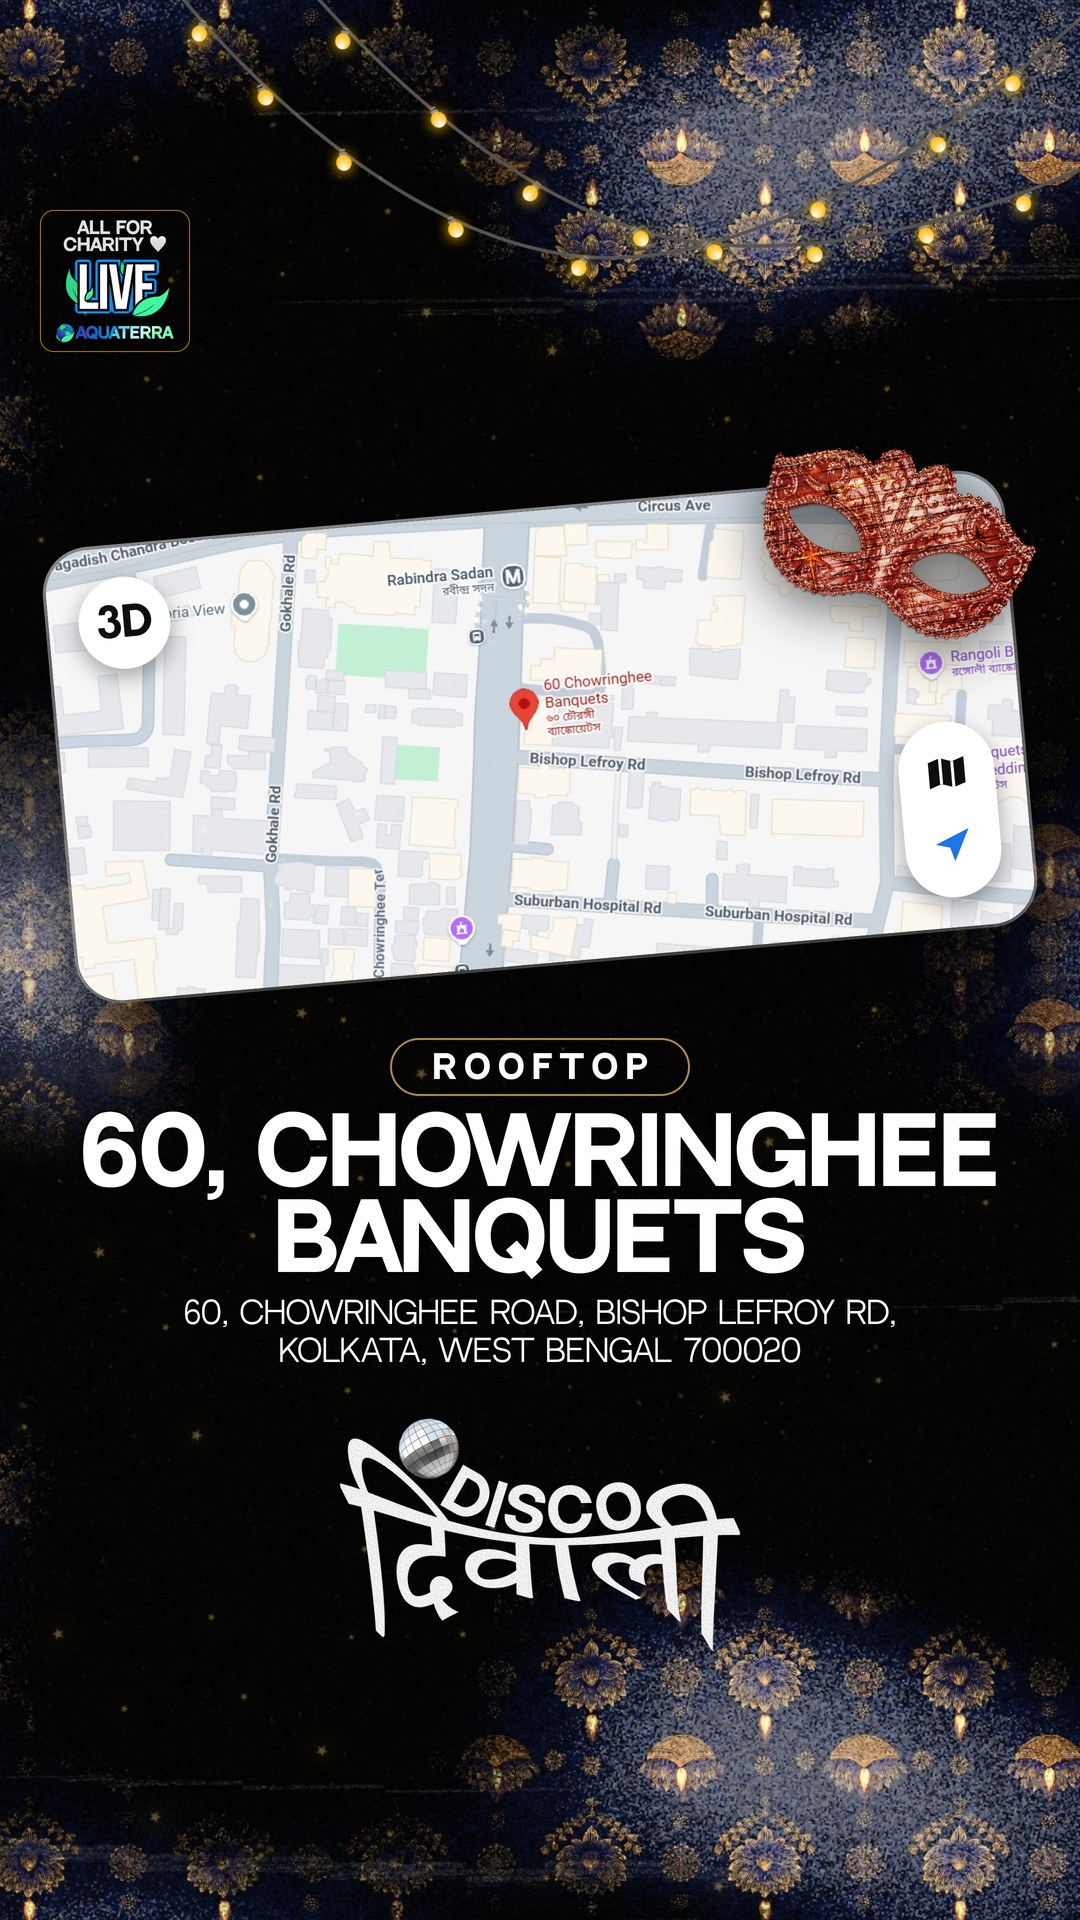
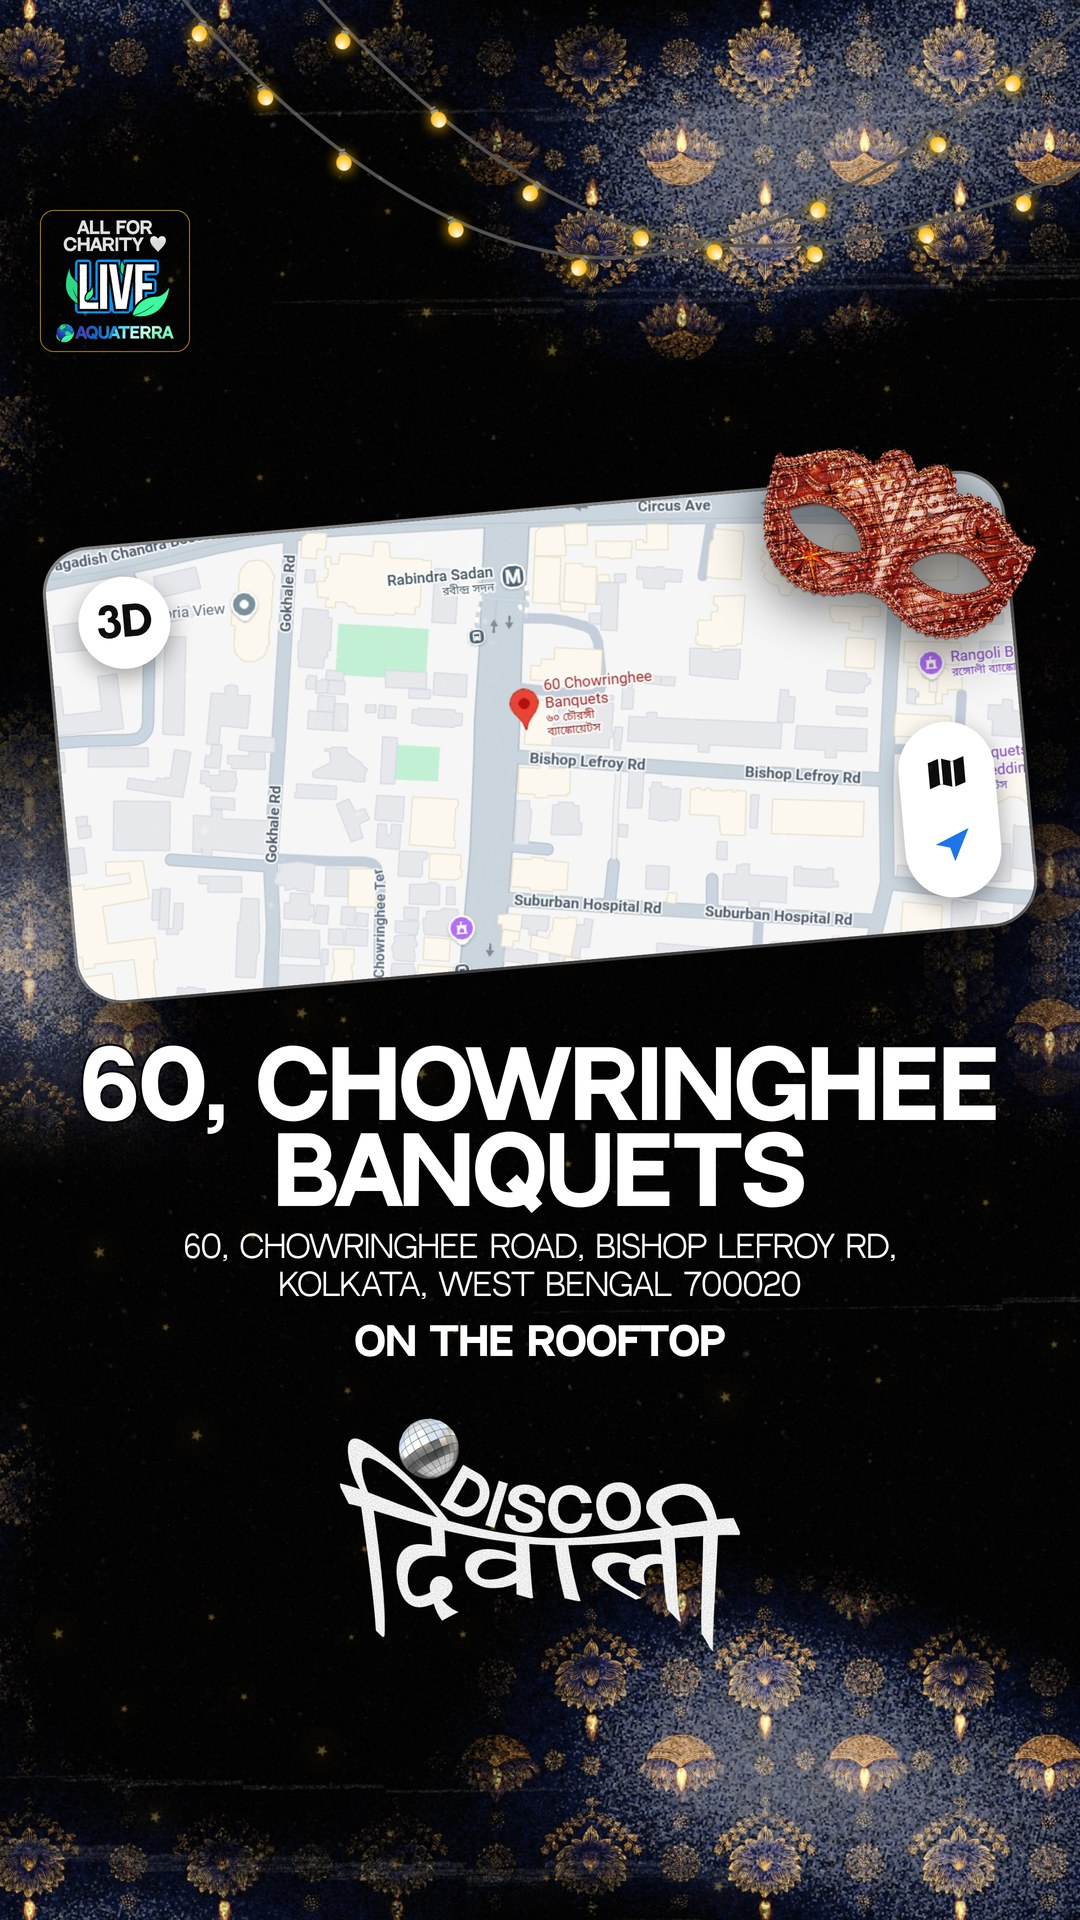
Disco Diwali location reveal: ON THE ROOFTOP line below the address (option B)
Claude-Session: https://claude.ai/code/session_01SvqxkoTEENgXPyjFifmnqB

Changed region(s): [[0.0611, 0.5312, 0.9167, 0.7188]]

diff --git a/scratchpad/dd_location_reveal.py b/scratchpad/dd_location_reveal.py
@@ -22,7 +22,8 @@ VENUE = ("60, Chowringhee", "Banquets")
 ADDR = ("60, Chowringhee Road, Bishop Lefroy Rd,", "Kolkata, West Bengal 700020")
 TILT = -5                                   # the screenshot is 1080x508: any card width w keeps its aspect at h = w * 508 / 1080
 BLUE = "#1A73E8"
-VARIANT = os.environ.get("ROOFTOP", "tag")      # how the rooftop is mentioned: tag | plain_above | below | callout
+DEFAULT_VARIANT = "below"                             # chosen by the user, 2026-10-19: "ON THE ROOFTOP" below the address
+VARIANT = os.environ.get("ROOFTOP", DEFAULT_VARIANT)   # how the rooftop is mentioned: below | tag | plain_above | callout
 
 
 def rot_box(cx, cy, w, h, deg):
@@ -119,7 +120,7 @@ async def main():
         for name, H in (("feed", 1350), ("story", 1920)):
             inner, els, bottom = poster(H)
             print(f"[{name}] last element ends at y={bottom} of {H}")
-            await B.render(B.page(W, H, "#000", inner, grain=False), os.path.join(OUT, (f"{name}.png" if VARIANT == "tag" else f"var_{VARIANT}_{name}.png")), W, H, elements=els, containers=(), bleed_tags=("plate",), crop_tags=("plate", "card"),
+            await B.render(B.page(W, H, "#000", inner, grain=False), os.path.join(OUT, (f"{name}.png" if VARIANT == DEFAULT_VARIANT else f"var_{VARIANT}_{name}.png")), W, H, elements=els, containers=(), bleed_tags=("plate",), crop_tags=("plate", "card"),
                            page_bg="#000", collision_ignore=[("mask", "card"), ("card", "badge")])
     print("location reveal done ->", OUT)
 asyncio.run(main())

diff --git a/brain/DISCO_DIWALI.md b/brain/DISCO_DIWALI.md
@@ -85,7 +85,7 @@ Four 4:5 slides from a second user inspo (dimmed full-bleed night photo, gold-bo
 Four 1080x1350 slides on the approved diya ground (user, 2026-10-14, "i want this blue effect": black, navy and gold lotus-diya corners fading to black, string lights; not the beam recipe), from a user inspo (a "Choose everything related to..." verification card over a party photo): 1 the COVER (title lockup, copper mask, LIVE badge, a full captcha-card hook: blue header VERIFY YOU'RE A DISCO DIWALI HUMAN, a checkbox with a spinner, a SWIPE button), 2 the card with nine real event photos, 3 the same card with all nine ticked and the button reading VERIFIED, 4 ALL FOR CHARITY with the edition line and the LINK IN BIO pill (no date or time anywhere in the carousel, user 2026-10-14). Adaptations: the card is a design device (no reCAPTCHA marks, real photos, our button); the inspo's "best parties in the city" became "Related to Disco Diwali" because the claim cannot be backed; the header keeps the inspo's blue as the recognisable mechanism. No price, venue or lineup. Photo consent caveat applies (nine event photos, several show apparent minors).
 
 ### Location reveal poster (2026-10-19) — `scratchpad/dd_location_reveal.py`, JPEGs in `sample_outputs/disco_diwali_location/`
-Feed 1080x1350 and story 1080x1920 from a user inspo (a tilted rounded map card lying on the ground with round map buttons and a pin avatar). The map is the USER'S OWN screenshot (`engine/assets/disco_diwali/map_60_chowringhee.jpg`), never redrawn, so no street label is ours; the "3D" and compass buttons are drawn here with no Apple or Google marks. Facts printed, all supplied by the user: venue "60, Chowringhee Banquets" and the address "60, Chowringhee Road, Bishop Lefroy Rd, Kolkata, West Bengal 700020". No date or time (user choice), no price, no lineup. Layout (user, 2026-10-19: no pill, lockup in the footer like the reference chat slide, mask back on the card, no edition line): LIVE badge top left, the map card with the copper mask lying across its top-right corner (the placement the user preferred over a top-right mask), the reveal copy (a gold-edged ROOFTOP tag, then the venue and address; the event is on a rooftop, user 2026-10-19; the first wording, THE ROOFTOP AT, read awkwardly and was dropped), then the DISCO DIWALI lockup WITH its ball as a small footer mark. No LINK IN BIO pill, no MASQUERADE SANGEET EDITION line, no LOCATION REVEAL label. The map card is 960px wide (a tilted box ~995px), the hero. The inspo's Memoji pin avatar is not used; the red venue pin in the screenshot carries the pointing. Lessons: size the feed stack from the room left (the first build ended at y=1432 on a 1350 canvas, caught by the gate); a headline at the story's full size sat 50px from the edge, so 90px. The "Turf XL, New Alipore" in the TerraThon scripts is where the ticket STALL is, not the event venue.
+Feed 1080x1350 and story 1080x1920 from a user inspo (a tilted rounded map card lying on the ground with round map buttons and a pin avatar). The map is the USER'S OWN screenshot (`engine/assets/disco_diwali/map_60_chowringhee.jpg`), never redrawn, so no street label is ours; the "3D" and compass buttons are drawn here with no Apple or Google marks. Facts printed, all supplied by the user: venue "60, Chowringhee Banquets" and the address "60, Chowringhee Road, Bishop Lefroy Rd, Kolkata, West Bengal 700020". No date or time (user choice), no price, no lineup. Layout (user, 2026-10-19: no pill, lockup in the footer like the reference chat slide, mask back on the card, no edition line): LIVE badge top left, the map card with the copper mask lying across its top-right corner (the placement the user preferred over a top-right mask), the reveal copy (the venue, the address, then a plain bold line ON THE ROOFTOP; the event is on a rooftop, user 2026-10-19). Three earlier wordings were tried and rejected by eye (THE ROOFTOP AT above the venue, a gold ROOFTOP pill, and a callout on the map pin); `dd_location_reveal.py` keeps them behind the `ROOFTOP=` switch (default `below`), then the DISCO DIWALI lockup WITH its ball as a small footer mark. No LINK IN BIO pill, no MASQUERADE SANGEET EDITION line, no LOCATION REVEAL label. The map card is 960px wide (a tilted box ~995px), the hero. The inspo's Memoji pin avatar is not used; the red venue pin in the screenshot carries the pointing. Lessons: size the feed stack from the room left (the first build ended at y=1432 on a 1350 canvas, caught by the gate); a headline at the story's full size sat 50px from the edge, so 90px. The "Turf XL, New Alipore" in the TerraThon scripts is where the ticket STALL is, not the event venue.
 
 ## 6. Conflicts with CLAUDE.md and how they were resolved (precedence ladder, sec 2)
 - Ground, palette and fonts differ from the AQ house style. Resolved as a format exception, like TerraThon. The format wins inside `discodiwali.py` only.
